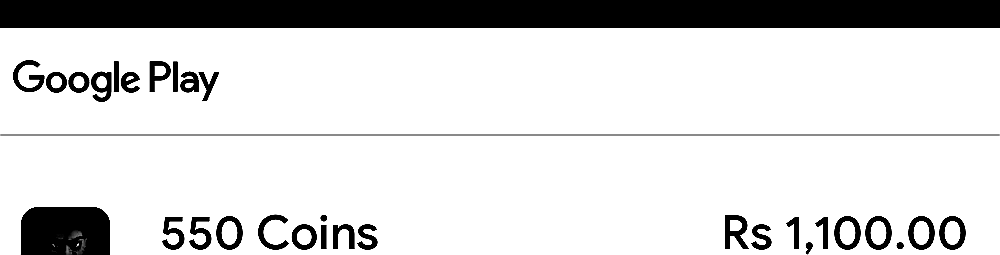
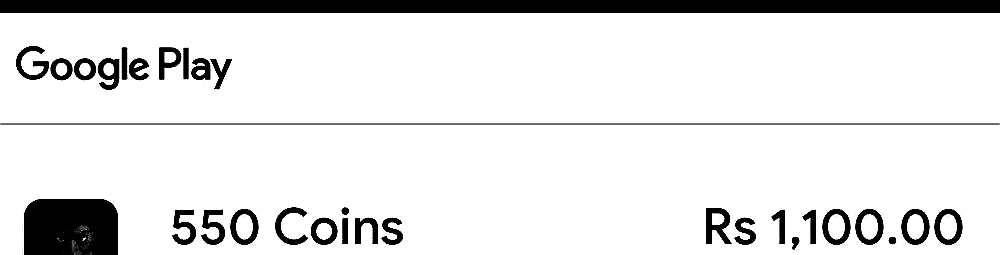
Improved stars in-apps OCR for prices under and over 1000

diff --git a/stars_in-apps/stars.py b/stars_in-apps/stars.py
@@ -25,7 +25,7 @@ if G.DEVICE:
         print("The device is a mobile phone.")
         mobile_device = True
         print(f"The device is a MOBILE & variable is '{mobile_device}'")
-        subsequent_crop_box = (50, 1345, 1050, 1600)  # Crop box for all other screenshots
+        subsequent_crop_box = (50, 1435, 1050, 1670)  # Crop box for all other screenshots
         print(f"Using crop box of MOBILE '{subsequent_crop_box}'")
 else:
     print("No device connected.")
@@ -34,7 +34,7 @@ else:
 pytesseract.pytesseract.tesseract_cmd = r'C:\\Users\\Hamza.Naseer\\AppData\\Local\\Programs\\Tesseract-OCR\\tesseract.exe'
 
 # Define different crop regions for the initial and subsequent screenshots
-initial_crop_box = (1400, 35, 1850, 135)  # Crop box for the first screenshot
+initial_crop_box = (1400, 35, 1950, 135)  # Crop box for the first screenshot
 
 # Step 1: Take and process the first screenshot
 first_screenshot_path = r'C:\\Users\\Hamza.Naseer\\Downloads\\Game In-Apps Automation using Airtest Project\\stars_in-apps\\screen_snapshot.png'
@@ -80,6 +80,7 @@ def convert_to_float(num_str):
         return None  # Return None if conversion fails
 
 # Define a function to perform touch actions, take screenshots, crop, enhance, save, and compare extracted numbers
+
 def perform_touch_and_update_stars(template_path, coin_increment, variable_to_match):
     global extracted_numbers_int, screenshot_counter
 
@@ -92,20 +93,19 @@ def perform_touch_and_update_stars(template_path, coin_increment, variable_to_ma
     image = Image.open(screenshot_full_path)
     cropped_image = image.crop(subsequent_crop_box).convert('L')  # Convert to grayscale
     contrast_enhancer = ImageEnhance.Contrast(cropped_image)
-    cropped_image = contrast_enhancer.enhance(4.0)
-    enhanced_image = cropped_image.filter(ImageFilter.SHARPEN)
+    enhanced_image = contrast_enhancer.enhance(2.5).filter(ImageFilter.SHARPEN)
 
     # Save the enhanced cropped screenshot
-    enhanced_screenshot_path = f'C:\\Users\\Hamza.Naseer\\Downloads\\Game In-Apps Automation using Airtest Project\\stars_in-apps\\Ehanced Images\\enhanced_image_{screenshot_counter}.png'
+    enhanced_screenshot_path = os.path.join(r'C:\\Users\Hamza.Naseer\\Downloads\Game In-Apps Automation using Airtest Project\\stars_in-apps\Ehanced Images\\', f"enhanced_image_{screenshot_counter}.png")
     enhanced_image.save(enhanced_screenshot_path)
     screenshot_counter += 1
 
-    # Step 5: Use pytesseract to extract the text from the enhanced cropped image
-    custom_config = r'--psm 6 -c tessedit_char_whitelist="0123456789,"'
+    # Use pytesseract to extract the text from the enhanced cropped image
+    custom_config = r'--psm 6 -c tessedit_char_whitelist="0123456789,."'
     extracted_text = pytesseract.image_to_string(enhanced_image, config=custom_config)
 
     print(f"Extracted Text: '{extracted_text}'")
-    
+
     # Initialize quantity and price as None
     quantity = None
     price = None
@@ -113,29 +113,35 @@ def perform_touch_and_update_stars(template_path, coin_increment, variable_to_ma
     # Extract quantity and price from the text
     numbers = re.findall(r'\d{1,3}(?:,\d{3})*(?:\.\d+)?', extracted_text)  # Matches numbers with commas and decimals
 
-    # Format the output for readability
-    # Step 6: Updated regex pattern to match numbers with or without commas or decimals
-    numbers = re.findall(r'(\d+(?:,\d{3})*(?:\.\d{2})?)', extracted_text)
-        
-    # Ensure we have at least two numbers
+    # Ensure we have at least two numbers for quantity and price
     if len(numbers) >= 2:
-        quantity = numbers[0].replace(',', '')  # Remove commas
-        price = numbers[1].replace(',', '')     # Remove commas for float conversion
-        print(f"Extracted Quantity: {int(quantity)}")
-        print(f"Extracted Price: {float(price):,.2f}")
-    else:
-        print("Insufficient numbers extracted.")
+        # Remove commas and convert the first number to integer for quantity
+        quantity = int(numbers[0].replace(',', ''))
+        
+        # Remove commas and convert the second number to float for price
+        price = float(numbers[1].replace(',', ''))
 
-    # Proceed to compare values
+        # Check if price might be missing decimal by evaluating its range
+        if price >= 1000 and not '.' in numbers[1]:  # If price seems unusually high and lacks a decimal
+            price /= 100
+
+        print(f"Extracted Quantity: {quantity}")
+        print(f"Extracted Price: {price:,.2f}")
+    else:
+        print("Insufficient numbers extracted. Quantity and price could not be determined.")
+        return  # Exit if values aren't sufficient
+
+    # Compare extracted values with expected values
     extracted_quantity = quantity
     extracted_price = price
 
-    # Compare extracted values
     compare_extracted_values(screenshot_counter, extracted_quantity, extracted_price, variable_to_match[0], variable_to_match[1])
-    
+
+    # Perform touch action and increment stars
     touch(Template(template_path, resolution=(2560, 1600)))
     sleep(5)  # Wait for the action to complete
-    extracted_numbers_int += coin_increment 
+    extracted_numbers_int += coin_increment
+
 
 # Function to compare extracted values with expected values
 def compare_extracted_values(screenshot_counter, extracted_quantity, extracted_price, variable_quantity, variable_price):
@@ -197,7 +203,7 @@ if not exists(Template(r"tpl1730784087753.png", record_pos=(-0.024, 0.032), reso
     print("Coins VGP detected. Performing it.")
     touch(Template(r"tpl1729599219507.png", resolution=(2560, 1600)))
     sleep(6)
-    perform_touch_and_update_stars(r"tpl1729599241291.png", 150, (150, 2300.00))
+    perform_touch_and_update_stars(r"tpl1730883540360.png", 150, (150, 2300.00))
     sleep(6)
 
     touch(Template(r"tpl1729599963378.png", resolution=(2560, 1600)))
@@ -253,7 +259,7 @@ else:
     sleep(6)
     touch(Template(r"tpl1729599219507.png", resolution=(2560, 1600)))
     sleep(6)
-    perform_touch_and_update_stars(r"tpl1729599241291.png", 150, (150, 2300.00))
+    perform_touch_and_update_stars(r"tpl1730883540360.png", 150, (150, 2300.00))
     
 
 # Print results

diff --git a/coins_in-apps/coins.py b/coins_in-apps/coins.py
@@ -25,7 +25,7 @@ if G.DEVICE:
         print("The device is a mobile phone.")
         mobile_device = True
         print(f"The device is a MOBILE & variable is '{mobile_device}'")
-        subsequent_crop_box = (50, 1345, 1050, 1600)  # Crop box for all other screenshots
+        subsequent_crop_box = (50, 1395, 1050, 1650)  # Crop box for all other screenshots
         print(f"Using crop box of MOBILE '{subsequent_crop_box}'")
 else:
     print("No device connected.")
@@ -34,7 +34,7 @@ else:
 pytesseract.pytesseract.tesseract_cmd = r'C:\\Users\\Hamza.Naseer\\AppData\\Local\\Programs\\Tesseract-OCR\\tesseract.exe'
 
 # Define different crop regions for the initial and subsequent screenshots
-initial_crop_box = (1900, 35, 2250, 135)  # Crop box for the first screenshot
+initial_crop_box = (1900, 35, 2300, 135)  # Crop box for the first screenshot
 
 # Step 1: Take and process the first screenshot
 first_screenshot_path = r'C:\\Users\\Hamza.Naseer\\Downloads\\Game In-Apps Automation using Airtest Project\\coins_in-apps\\screen_snapshot.png'
@@ -80,6 +80,7 @@ def convert_to_float(num_str):
         return None  # Return None if conversion fails
 
 # Define a function to perform touch actions, take screenshots, crop, enhance, save, and compare extracted numbers
+
 def perform_touch_and_update_coins(template_path, coin_increment, variable_to_match):
     global extracted_numbers_int, screenshot_counter
 
@@ -92,20 +93,19 @@ def perform_touch_and_update_coins(template_path, coin_increment, variable_to_ma
     image = Image.open(screenshot_full_path)
     cropped_image = image.crop(subsequent_crop_box).convert('L')  # Convert to grayscale
     contrast_enhancer = ImageEnhance.Contrast(cropped_image)
-    cropped_image = contrast_enhancer.enhance(2.5)
-    enhanced_image = cropped_image.filter(ImageFilter.SHARPEN)
+    enhanced_image = contrast_enhancer.enhance(2.5).filter(ImageFilter.SHARPEN)
 
     # Save the enhanced cropped screenshot
-    enhanced_screenshot_path = f'C:\\Users\\Hamza.Naseer\\Downloads\\Game In-Apps Automation using Airtest Project\\coins_in-apps\\Ehanced Images\\enhanced_image_{screenshot_counter}.png'
+    enhanced_screenshot_path = os.path.join(r'C:\\Users\\Hamza.Naseer\\Downloads\\Game In-Apps Automation using Airtest Project\\coins_in-apps\\Enhanced Images\\', f"enhanced_image_{screenshot_counter}.png")
     enhanced_image.save(enhanced_screenshot_path)
     screenshot_counter += 1
 
-    # Step 5: Use pytesseract to extract the text from the enhanced cropped image
+    # Use pytesseract to extract the text from the enhanced cropped image
     custom_config = r'--psm 6 -c tessedit_char_whitelist="0123456789,."'
     extracted_text = pytesseract.image_to_string(enhanced_image, config=custom_config)
 
     print(f"Extracted Text: '{extracted_text}'")
-    
+
     # Initialize quantity and price as None
     quantity = None
     price = None
@@ -113,29 +113,31 @@ def perform_touch_and_update_coins(template_path, coin_increment, variable_to_ma
     # Extract quantity and price from the text
     numbers = re.findall(r'\d{1,3}(?:,\d{3})*(?:\.\d+)?', extracted_text)  # Matches numbers with commas and decimals
 
-    # Format the output for readability
-    # Step 6: Updated regex pattern to match numbers with or without commas or decimals
-    numbers = re.findall(r'(\d+(?:,\d{3})*(?:\.\d{2})?)', extracted_text)
-        
-    # Ensure we have at least two numbers
+    # Ensure we have at least two numbers for quantity and price
     if len(numbers) >= 2:
-        quantity = numbers[0].replace(',', '')  # Remove commas
-        price = numbers[1].replace(',', '')     # Remove commas for float conversion
-        print(f"Extracted Quantity: {int(quantity)}")
-        print(f"Extracted Price: {float(price):,.2f}")
+        # Remove commas and convert the first number to integer for quantity
+        quantity = int(numbers[0].replace(',', ''))
+        # Remove commas and convert the second number to float for price
+        price = float(numbers[1].replace(',', ''))
+        
+        print(f"Extracted Quantity: {quantity}")
+        print(f"Extracted Price: {price:,.2f}")
     else:
-        print("Insufficient numbers extracted.")
+        print("Insufficient numbers extracted. Quantity and price could not be determined.")
+        return  # Exit if values aren't sufficient
 
-    # Proceed to compare values
+    # Compare extracted values with expected values
     extracted_quantity = quantity
     extracted_price = price
 
-    # Compare extracted values
     compare_extracted_values(screenshot_counter, extracted_quantity, extracted_price, variable_to_match[0], variable_to_match[1])
-    
+
+    # Perform touch action and increment coins
     touch(Template(template_path, resolution=(2560, 1600)))
     sleep(5)  # Wait for the action to complete
-    extracted_numbers_int += coin_increment 
+    extracted_numbers_int += coin_increment
+
+
 
 # Function to compare extracted values with expected values
 def compare_extracted_values(screenshot_counter, extracted_quantity, extracted_price, variable_quantity, variable_price):
@@ -195,7 +197,7 @@ if not exists(Template(r"tpl1729682994210.png", record_pos=(-0.0, -0.003), resol
     print("Coins VGP detected. Performing it.")
     touch(Template(r"tpl1729599219507.png", resolution=(2560, 1600)))
     sleep(6)
-    perform_touch_and_update_coins(r"tpl1729599241291.png", 2500, (2500, 2300.00))
+    perform_touch_and_update_coins(r"tpl1730883540360.png", 2500, (2500, 2300.00))
     sleep(6)
 
     touch(Template(r"tpl1729599963378.png", resolution=(2560, 1600)))
@@ -251,7 +253,7 @@ else:
     sleep(6)
     touch(Template(r"tpl1729599219507.png", resolution=(2560, 1600)))
     sleep(6)
-    perform_touch_and_update_coins(r"tpl1729599241291.png", 2500, (2500, 2300.00))
+    perform_touch_and_update_coins(r"tpl1730883540360.png", 2500, (2500, 2300.00))
     
 
 # Print results
